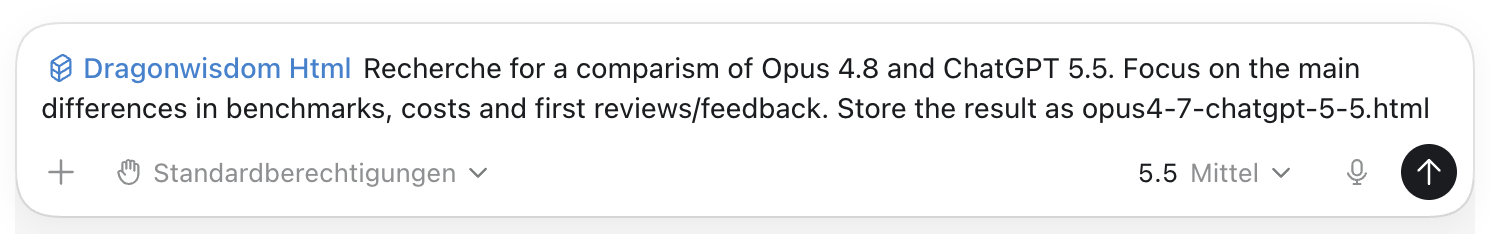
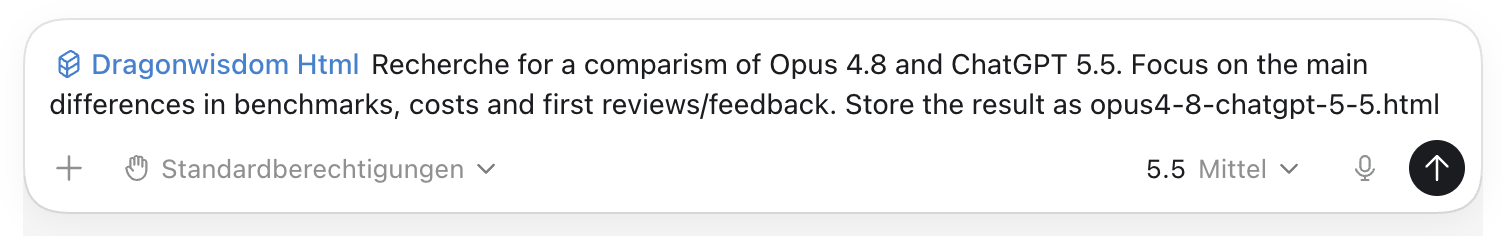
chore: Add the actual example research

diff --git a/opus4-8-chatgpt-5-5.html b/opus4-8-chatgpt-5-5.html
@@ -1,0 +1,218 @@
+<!doctype html>
+<html lang="en">
+  <head>
+    <meta charset="UTF-8">
+    <meta name="viewport" content="width=device-width, initial-scale=1.0">
+    <link rel="icon" href="./favicon.ico">
+    <title>Claude Opus 4.8 vs ChatGPT 5.5</title>
+    <link rel="stylesheet" href="https://releases.dragonwisdom.de/v1.2/dragonwisdom.css">
+    <script src="https://releases.dragonwisdom.de/v1.2/dragonwisdom.js"></script>
+  </head>
+  <body>
+    <header>
+      <h1>Claude Opus 4.8 vs ChatGPT 5.5</h1>
+    </header>
+
+    <nav>
+      <button type="button" aria-label="Open menu" aria-expanded="false" aria-controls="main-navigation">☰</button>
+      <ul id="main-navigation">
+        <li><a href="#summary">Summary</a></li>
+        <li><a href="#benchmarks">Benchmarks</a></li>
+        <li><a href="#costs">Costs</a></li>
+        <li><a href="#feedback">First feedback</a></li>
+        <li><a href="#sources">Sources</a></li>
+      </ul>
+    </nav>
+
+    <main>
+      <section id="summary">
+        <section>
+          <h2>Executive summary</h2>
+          <p>Claude Opus 4.8, released on May 28, 2026, is Anthropic's newest Opus model. GPT-5.5 was announced by OpenAI in April 2026 and rolled out to ChatGPT and Codex before API availability. The comparison is uneven because both vendors publish different benchmark sets and because some third-party results mix ChatGPT, Codex, API and effort settings.</p>
+          <p>At a high level, Opus 4.8 looks stronger for agentic coding, long-context work, professional analysis and self-checking behavior. GPT-5.5 looks stronger for terminal automation, broad OpenAI ecosystem use, lower regular-output pricing and some math, browsing and cybersecurity benchmarks.</p>
+        </section>
+        <section>
+          <h2>Main differences</h2>
+          <ul>
+            <li><strong>Coding:</strong> Opus 4.8 leads on SWE-Bench Pro in secondary benchmark summaries; GPT-5.5 leads on Terminal-Bench in OpenAI and secondary reporting.</li>
+            <li><strong>Cost:</strong> standard Opus 4.8 API pricing is $5 input and $25 output per 1M tokens. OpenAI announced gpt-5.5 API pricing at $5 input and $30 output per 1M tokens, with gpt-5.5-pro at $30 input and $180 output.</li>
+            <li><strong>Context:</strong> both flagship API variants are positioned around a 1M token context window; GPT-5.5 in Codex is listed with 400K context.</li>
+            <li><strong>Behavior:</strong> Anthropic emphasizes honesty and lower unflagged-code-flaw rates. OpenAI emphasizes agentic coding, scientific research, computer work and token efficiency versus GPT-5.4.</li>
+            <li><strong>Availability:</strong> Opus 4.8 is available through Claude API, Claude products and cloud partners. GPT-5.5 is in ChatGPT and Codex first, with API availability announced as coming soon.</li>
+          </ul>
+        </section>
+      </section>
+
+      <section id="benchmarks">
+        <section>
+          <h2>Benchmark snapshot</h2>
+          <p>The following table combines official OpenAI numbers with Anthropic-related benchmark summaries from Vellum, AllThings.how and TokenMix where Anthropic's launch page does not expose all numbers as plain text.</p>
+          <table class="sortable">
+            <thead>
+              <tr>
+                <th>Benchmark</th>
+                <th>Claude Opus 4.8</th>
+                <th>GPT-5.5</th>
+                <th>Practical read</th>
+              </tr>
+            </thead>
+            <tbody>
+              <tr>
+                <td>SWE-Bench Pro</td>
+                <td>69.2%</td>
+                <td>58.6%</td>
+                <td>Opus 4.8 appears stronger on hard GitHub issue resolution.</td>
+              </tr>
+              <tr>
+                <td>Terminal-Bench 2.1</td>
+                <td>74.6%</td>
+                <td>78.2%</td>
+                <td>GPT-5.5 appears better for command-line agent workflows.</td>
+              </tr>
+              <tr>
+                <td>Terminal-Bench 2.0</td>
+                <td>Not directly comparable in Anthropic plain-text release</td>
+                <td>82.7%</td>
+                <td>OpenAI reports state-of-the-art terminal workflow performance.</td>
+              </tr>
+              <tr>
+                <td>OSWorld-Verified</td>
+                <td>83.4%</td>
+                <td>78.7%</td>
+                <td>Secondary reports put Opus ahead on desktop computer use.</td>
+              </tr>
+              <tr>
+                <td>GDPval-AA Elo</td>
+                <td>1,890</td>
+                <td>1,769</td>
+                <td>Opus 4.8 appears stronger on professional knowledge-work tasks.</td>
+              </tr>
+              <tr>
+                <td>BrowseComp</td>
+                <td>84.3%</td>
+                <td>84.4%</td>
+                <td>Very close on browsing/research in these reported figures.</td>
+              </tr>
+              <tr>
+                <td>Humanity's Last Exam with tools</td>
+                <td>57.9%</td>
+                <td>52.2%</td>
+                <td>Opus 4.8 appears stronger in the cited secondary summaries.</td>
+              </tr>
+              <tr>
+                <td>FrontierMath Tier 1-3</td>
+                <td>Not reported in comparable plain text</td>
+                <td>51.7%</td>
+                <td>OpenAI gives detailed math results for GPT-5.5; direct Opus 4.8 comparison is incomplete.</td>
+              </tr>
+              <tr>
+                <td>CyberGym</td>
+                <td>Not reported in comparable plain text</td>
+                <td>81.8%</td>
+                <td>OpenAI reports a strong cybersecurity step-up versus GPT-5.4.</td>
+              </tr>
+            </tbody>
+          </table>
+        </section>
+        <section>
+          <h2>Benchmark interpretation</h2>
+          <p>Opus 4.8's most meaningful benchmark story is not just a higher score, but a better reliability profile for long-running agent work. Anthropic says it is about four times less likely than Opus 4.7 to leave flaws in its own code unflagged. This matters for code review, migrations and research workflows where a model's willingness to report uncertainty has operational value.</p>
+          <p>GPT-5.5's strongest story is broader agentic productivity inside the OpenAI product stack. OpenAI reports 82.7% on Terminal-Bench 2.0, 78.7% on OSWorld-Verified, 84.4% on BrowseComp and 81.8% on CyberGym. It also frames GPT-5.5 as more token efficient than GPT-5.4, even though API pricing is higher than GPT-5.4.</p>
+        </section>
+      </section>
+
+      <section id="costs">
+        <section>
+          <h2>Cost comparison</h2>
+          <table class="sortable">
+            <thead>
+              <tr>
+                <th>Model or mode</th>
+                <th>Input per 1M tokens</th>
+                <th>Output per 1M tokens</th>
+                <th>Notes</th>
+              </tr>
+            </thead>
+            <tbody>
+              <tr>
+                <td>Claude Opus 4.8 standard</td>
+                <td>$5</td>
+                <td>$25</td>
+                <td>Same regular usage price as Opus 4.7.</td>
+              </tr>
+              <tr>
+                <td>Claude Opus 4.8 fast mode</td>
+                <td>$10</td>
+                <td>$50</td>
+                <td>Higher speed at 2x standard per-token pricing.</td>
+              </tr>
+              <tr>
+                <td>GPT-5.5 API announced</td>
+                <td>$5</td>
+                <td>$30</td>
+                <td>OpenAI said API availability was coming soon.</td>
+              </tr>
+              <tr>
+                <td>GPT-5.5 Pro API announced</td>
+                <td>$30</td>
+                <td>$180</td>
+                <td>Higher-accuracy tier for harder questions.</td>
+              </tr>
+              <tr>
+                <td>GPT-5.5 Fast in Codex</td>
+                <td>Plan-based</td>
+                <td>2.5x cost in Codex usage terms</td>
+                <td>OpenAI says it generates tokens 1.5x faster.</td>
+              </tr>
+            </tbody>
+          </table>
+        </section>
+        <section>
+          <h2>Cost implications</h2>
+          <p>For pure API output tokens, Opus 4.8 standard is cheaper than OpenAI's announced gpt-5.5 rate by $5 per 1M output tokens. GPT-5.5 may still be cheaper in real tasks if it uses fewer tokens, needs fewer retries or is accessed through subscription plans instead of direct API billing.</p>
+          <p>Opus 4.8's pricing advantage is less clear when fast mode is enabled, because the rate doubles. Its value case depends on whether better self-checking and higher SWE-Bench Pro/GDPval results reduce human review, retries or downstream failures.</p>
+        </section>
+      </section>
+
+      <section id="feedback">
+        <section>
+          <h2>First reviews and feedback</h2>
+          <ul>
+            <li><strong>Anthropic launch feedback:</strong> early testers reported higher-quality analysis, better citation precision, more efficient retrieval and stronger multi-step reasoning. Anthropic frames the model as a modest but tangible improvement.</li>
+            <li><strong>Tom's Guide:</strong> coverage focused on Opus 4.8 being more willing to push back, ask questions and avoid confidently pretending to know something.</li>
+            <li><strong>Tom's Guide head-to-head:</strong> a stress-test article favored Claude Opus 4.8 over ChatGPT-5.5 Instant on sycophancy and pushback tests, but that is a narrow behavioral test rather than a broad benchmark suite.</li>
+            <li><strong>TechRadar on GPT-5.5:</strong> early coverage described GPT-5.5 as a notable upgrade despite modest naming, especially in ChatGPT's broader product experience.</li>
+            <li><strong>Reddit and user reports:</strong> feedback is mixed. Some users report Opus 4.8 is a clear upgrade over Opus 4.7, while others complain about high token usage and say GPT-5.5 feels more token-efficient in their own coding workflows.</li>
+          </ul>
+        </section>
+        <section>
+          <h2>Bottom line</h2>
+          <p>Choose Claude Opus 4.8 first for high-stakes agentic coding, code review, long-context analysis and workflows where a model should challenge weak assumptions. Choose GPT-5.5 first for OpenAI-native workflows, terminal automation, ChatGPT/Codex integration, very broad tool use and cases where token efficiency or subscription access matters more than peak Opus-style review behavior.</p>
+        </section>
+      </section>
+
+      <section id="sources">
+        <section>
+          <h2>Sources</h2>
+          <ul>
+            <li><a href="https://www.anthropic.com/news/claude-opus-4-8">Anthropic: Introducing Claude Opus 4.8</a></li>
+            <li><a href="https://platform.claude.com/docs/en/about-claude/models/overview">Anthropic: Claude models overview</a></li>
+            <li><a href="https://openai.com/index/introducing-gpt-5-5/">OpenAI: Introducing GPT-5.5</a></li>
+            <li><a href="https://developers.openai.com/api/docs/pricing">OpenAI API pricing</a></li>
+            <li><a href="https://www.vellum.ai/blog/claude-opus-4-8-benchmarks-explained">Vellum: Claude Opus 4.8 benchmarks explained</a></li>
+            <li><a href="https://allthings.how/claude-opus-4-8-benchmarks-scores-rankings-and-pricing-may-2026/">AllThings.how: Claude Opus 4.8 benchmarks, scores and pricing</a></li>
+            <li><a href="https://tokenmix.ai/blog/claude-opus-4-8-review-pricing-benchmark">TokenMix: Claude Opus 4.8 review and benchmarks</a></li>
+            <li><a href="https://www.tomsguide.com/ai/claude-opus-4-8-just-launched-and-anthropic-says-its-far-less-likely-to-fake-answers">Tom's Guide: Claude Opus 4.8 launch review</a></li>
+            <li><a href="https://www.tomsguide.com/ai/claude-opus-4-8-just-proved-ai-is-finally-growing-a-backbone-and-it-crushed-chatgpt-in-7-brutal-tests">Tom's Guide: Claude Opus 4.8 vs ChatGPT-5.5 Instant tests</a></li>
+            <li><a href="https://www.techradar.com/ai-platforms-assistants/chatgpt/we-love-you-and-we-want-you-to-win-openai-releases-gpt-5-5-for-chatgpt">TechRadar: OpenAI releases GPT-5.5 for ChatGPT</a></li>
+            <li><a href="https://www.reddit.com/r/Anthropic/comments/1ts50bm/opus_48_still_isnt_as_good_as_gpt55/">Reddit: user feedback on Opus 4.8 vs GPT-5.5</a></li>
+          </ul>
+        </section>
+      </section>
+    </main>
+
+    <footer>
+      Made with <a href="https://dragonwisdom.de">DragonWisdom</a>
+    </footer>
+  </body>
+</html>

diff --git a/index.html b/index.html
@@ -48,7 +48,7 @@
           <p>DragonWisdom helps you write documentation as minimal, semantic HTML: clear and token-efficient for AI agents, while being beautifully styled and fully functional for humans.</p>
           <div class="split-2">
             <p>Turn a prompt <picture><source srcset="./img/prompt-research-dark.png" media="(prefers-color-scheme: dark)"><img class="zoomable" src="./img/prompt-research-light.png" alt="Prompt Research"></picture></p>
-            <p>Into a HTML file <picture><source srcset="./img/html-research-dark.png" media="(prefers-color-scheme: dark)"><img class="zoomable" src="./img/html-research-light.png" alt="HTML Research"></picture></p>
+            <p>Into HTML file (<a href="./opus4-8-chatgpt-5-5.html" target="_blank">opus4-8-chatgpt-5-5.html</a>) <picture><source srcset="./img/html-research-dark.png" media="(prefers-color-scheme: dark)"><img class="zoomable" src="./img/html-research-light.png" alt="HTML Research"></picture></p>
           </div>
         </section>
         <section>

diff --git a/README.md b/README.md
@@ -10,7 +10,7 @@ DragonWisdom helps you write documentation as minimal, semantic HTML: clear and 
 
 * Turn a prompt
   ![Prompt Research](public/img/prompt-research.png)
-* Into a HTML file
+* Into HTML file ([opus4-8-chatgpt-5-5.html](https://dragonwisdom.de/opus4-8-chatgpt-5-5.html))
   ![HTML Research](public/img/html-research.png)
 
 ## What You Are Looking At
